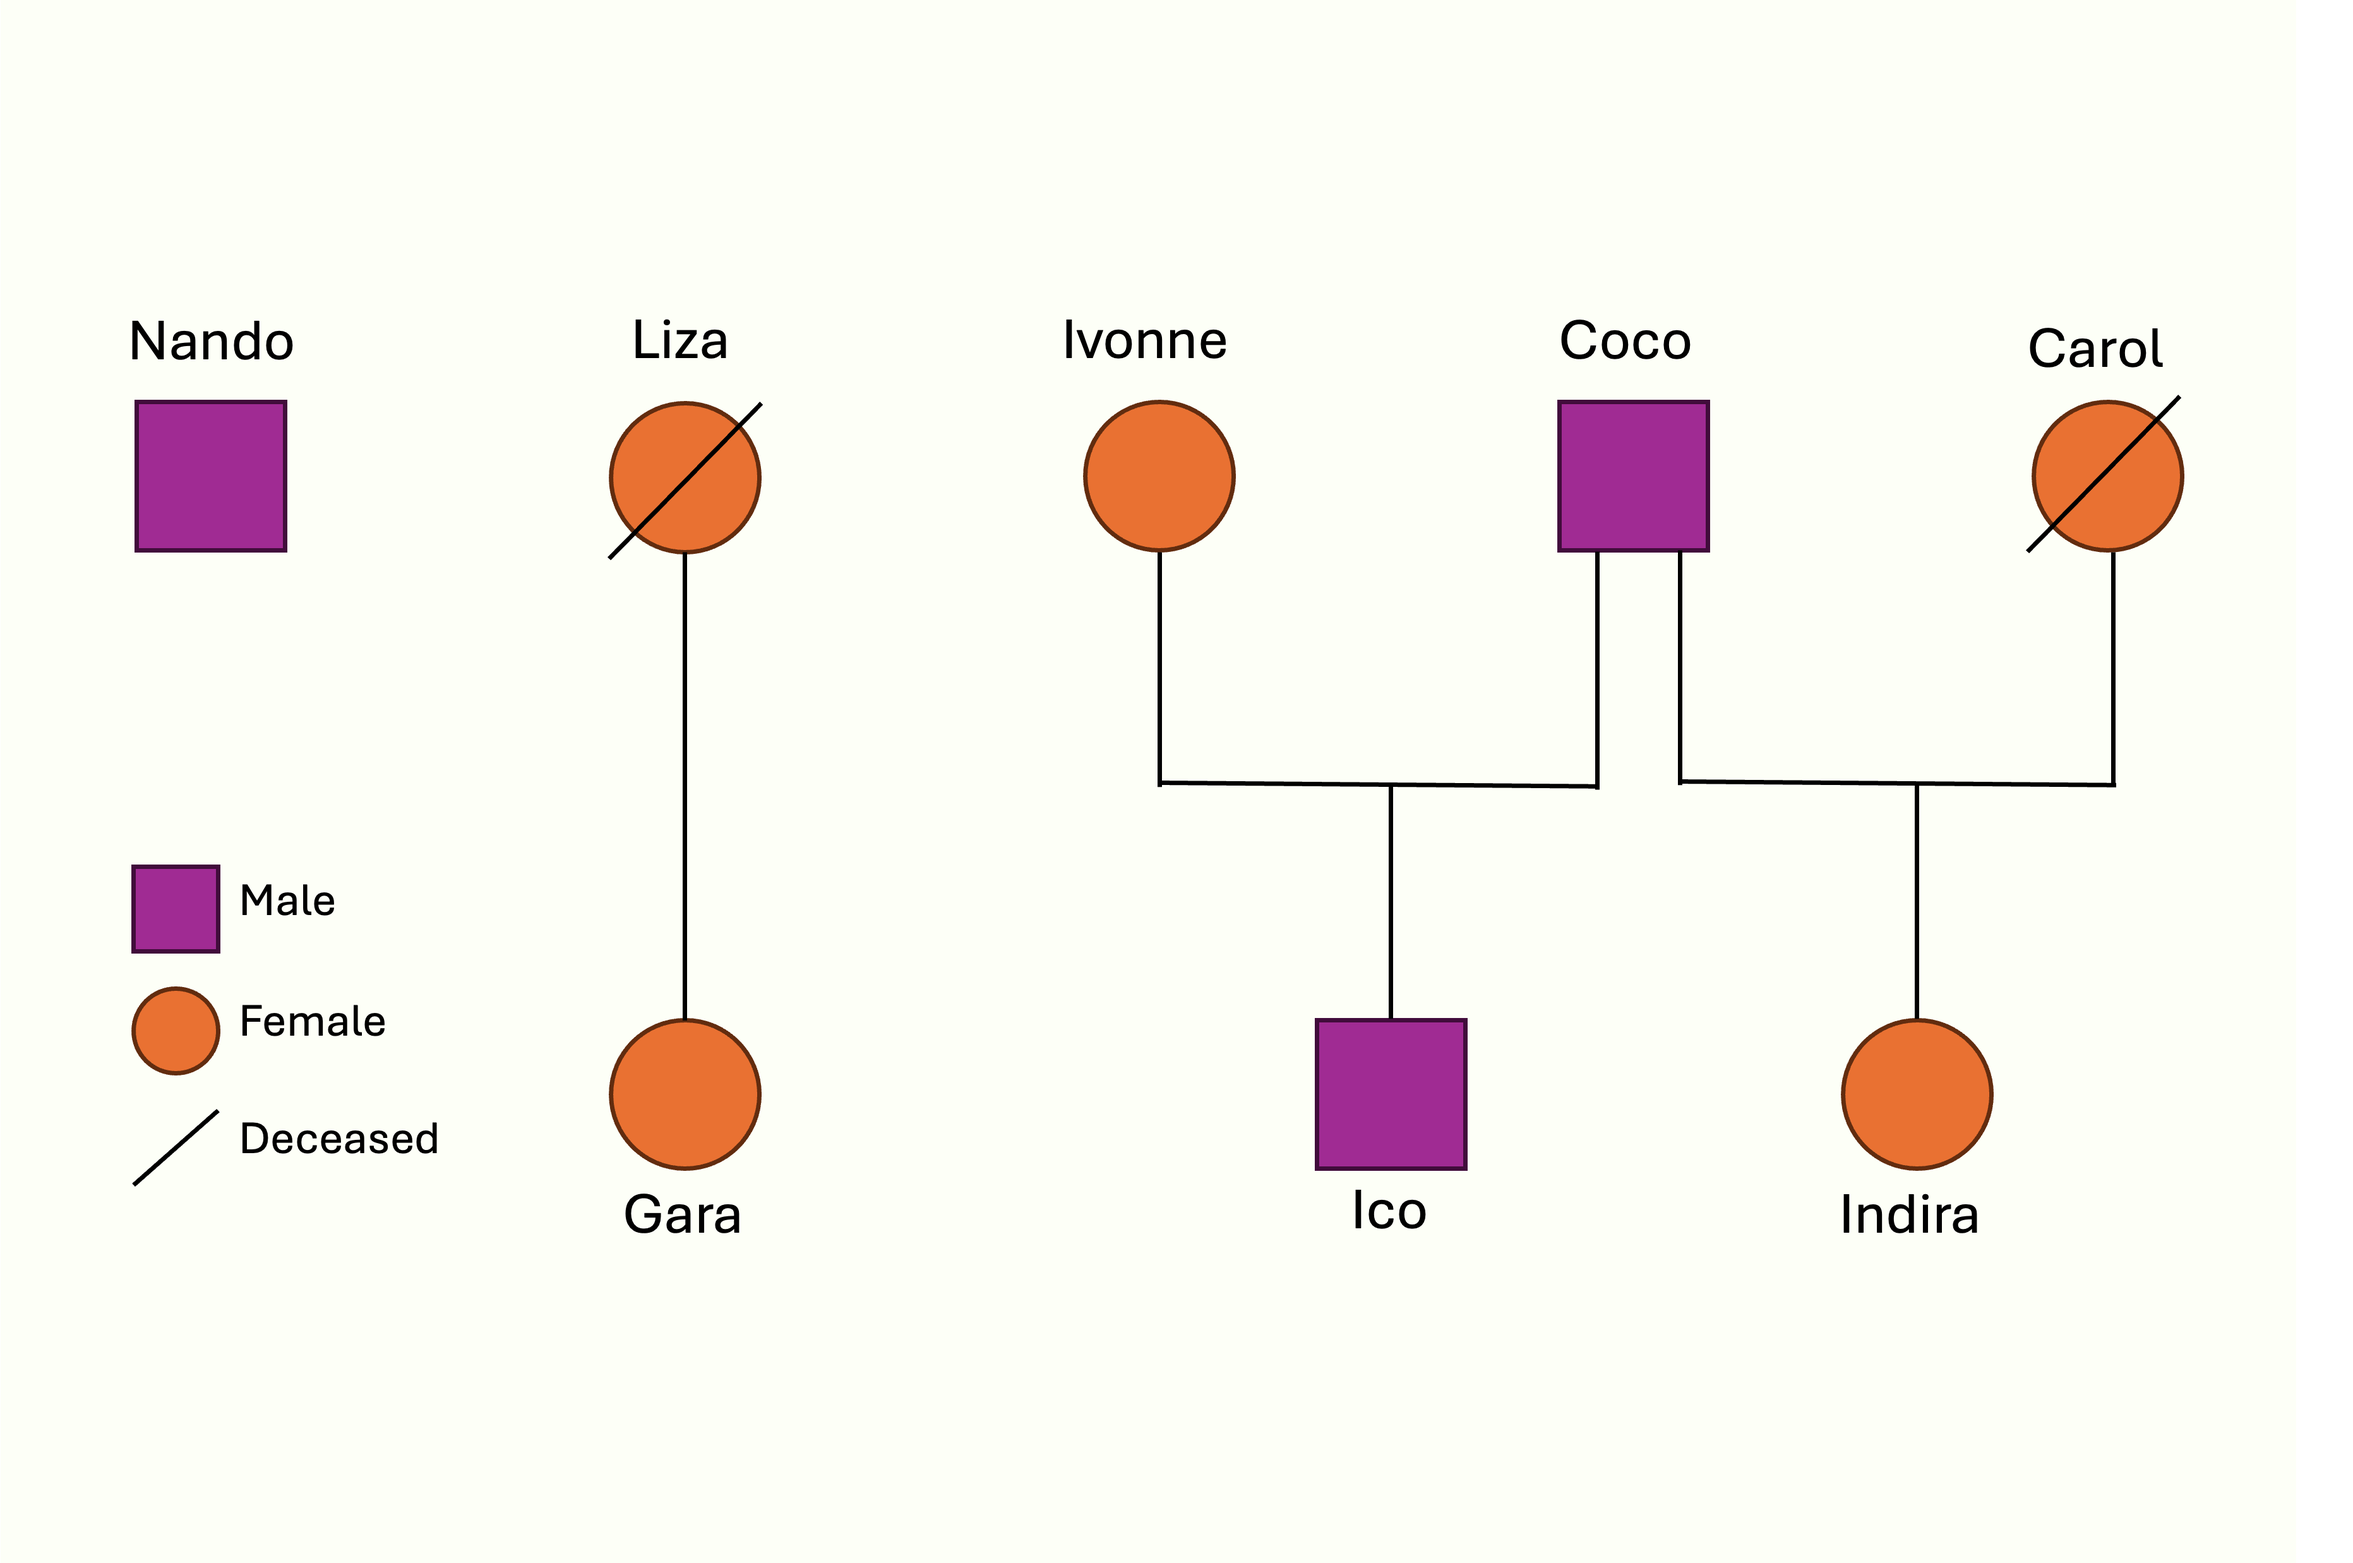
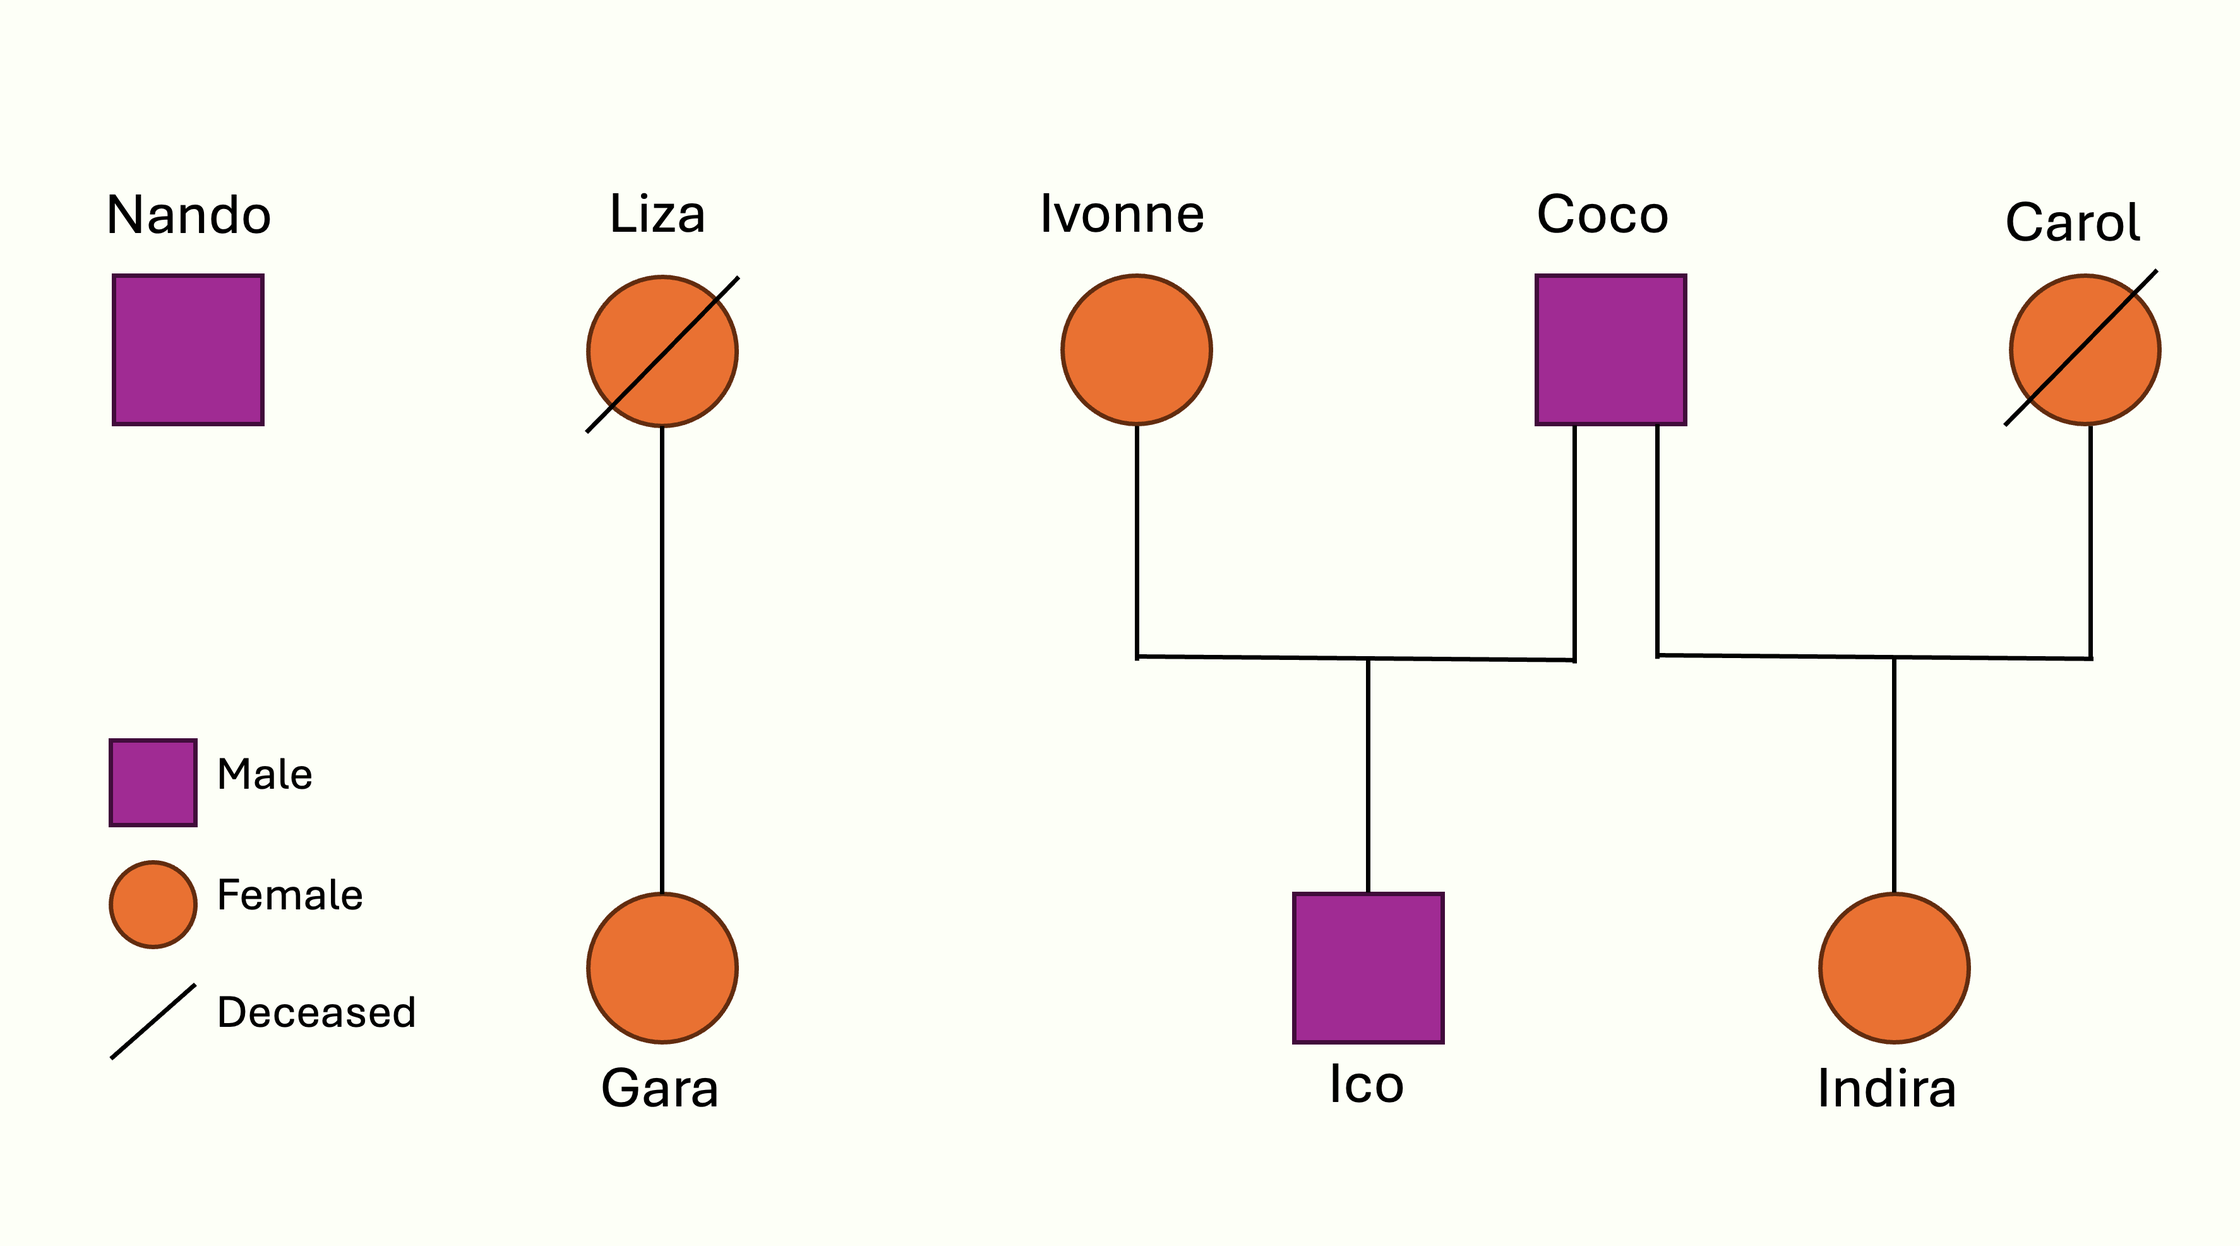
Built site for gh-pages

diff --git a/Projects.html b/Projects.html
@@ -345,22 +345,37 @@ document.addEventListener("DOMContentLoaded", () => {
 </div>
 </div>
 <div class="g-col-12 g-col-md-6 g-col-lg-4">
-<section id="pup-growth-project" class="level3 project-card" data-link="https://www.nature.com/articles/s41598-024-62290-x" data-tags="completed phd-chapter code">
+<div class="project-card" data-link="https://www.nature.com/articles/s41598-024-62290-x" data-tags="completed phd-chapter code">
+<p><img src="PGP.png" class="img-fluid"></p>
+<section id="pup-growth-project" class="level3">
 <h3 class="anchored" data-anchor-id="pup-growth-project">Pup Growth Project</h3>
-<p>Investigating how inbreeding affects pup survival in Antarctic fur seals amid environmental change and food scarcity.</p>
+<p>Investigating how inbreeding affects three early-life fitness traits (birth weight, growth and survival) in Antarctic fur seals amid environmental change and food scarcity.</p>
 <div class="card-tags">
 <p><span class="tag completed">Published</span> <span class="tag phd-chapter">PhD chapter</span> <span class="tag code">Code</span></p>
 </div>
 </section>
+</div>
 </div>
 <div class="g-col-12 g-col-md-6 g-col-lg-4">
 <div class="project-card" data-link="https://onlinelibrary.wiley.com/doi/10.1002/ece3.71588" data-tags="completed code">
 <p><img src="EDIgraphicupdated.png" class="img-fluid"></p>
 <section id="edi-study" class="level3">
 <h3 class="anchored" data-anchor-id="edi-study">EDI Study</h3>
-<p>Examining gender disparities in question-asking at a scientific conference to understand barriers to inclusion and equity in academic settings.</p>
+<p>Examining gender disparities in question-asking behaviour at a scientific conference to understand barriers to inclusion and equity in academic settings.</p>
 <div class="card-tags">
 <p><span class="tag completed">Published</span> <span class="tag code">Code</span></p>
+</div>
+</section>
+</div>
+</div>
+<div class="g-col-12 g-col-md-6 g-col-lg-4">
+<div class="project-card" data-link="https://doi.org/10.1038/s41559-023-02152-3" data-tags="completed">
+<p><img src="PEP.png" class="img-fluid"></p>
+<section id="pre-publication-error-correction" class="level3">
+<h3 class="anchored" data-anchor-id="pre-publication-error-correction">Pre-publication error correction</h3>
+<p>Data sharing does not lead to more post-publication error correction nor retractions, but pre-publication error correction has the potential to detect and correct errors without the stigma.</p>
+<div class="card-tags">
+<p><span class="tag completed">Published</span></p>
 </div>
 </section>
 </div>
